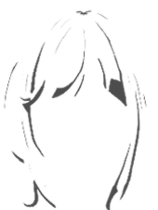
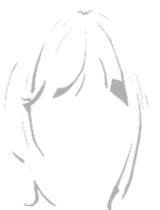
final draft for new hair

diff --git a/BondageClub/Assets/Female3DCG/Female3DCG.js b/BondageClub/Assets/Female3DCG/Female3DCG.js
@@ -18854,11 +18854,11 @@ var AssetFemale3DCG = [
 			},
 			{
 				Name: "HairFront65",
-				Top: 54,
-				Left: 171,
+				Top: 52,
+				Left: 169,
 				Layer: [
 					{
-						Name: "Main",
+						Name: "Full",
 					},
 					{
 						Name: "Highlights",
